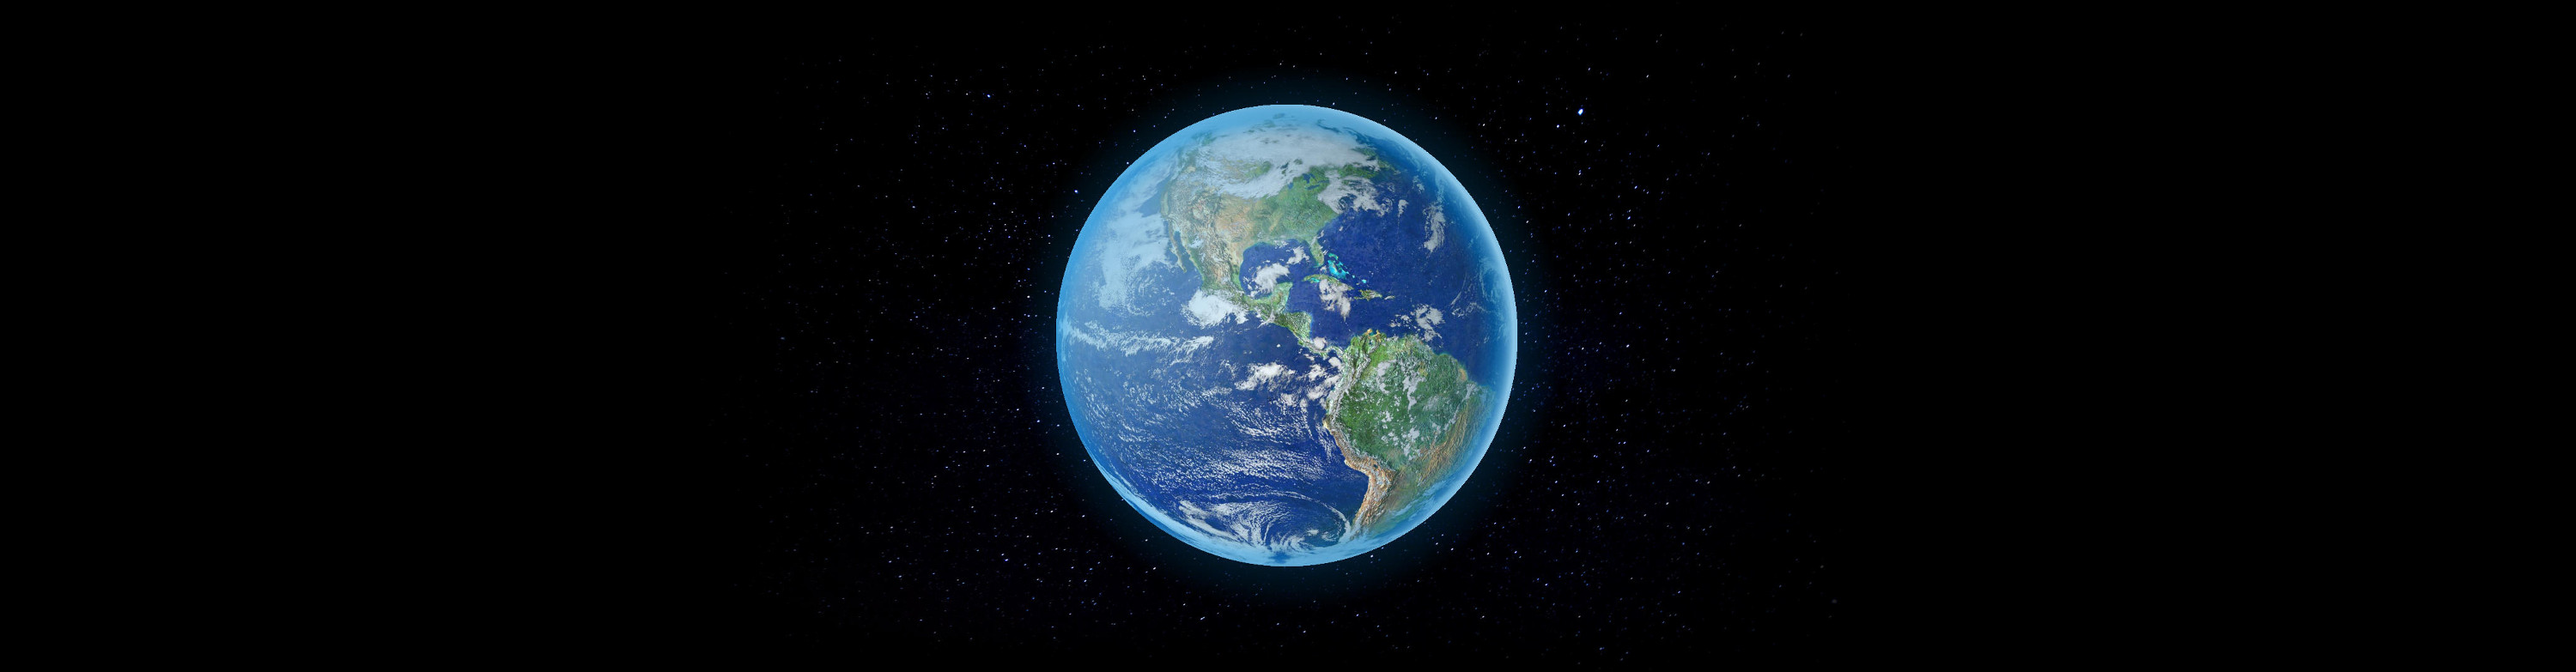
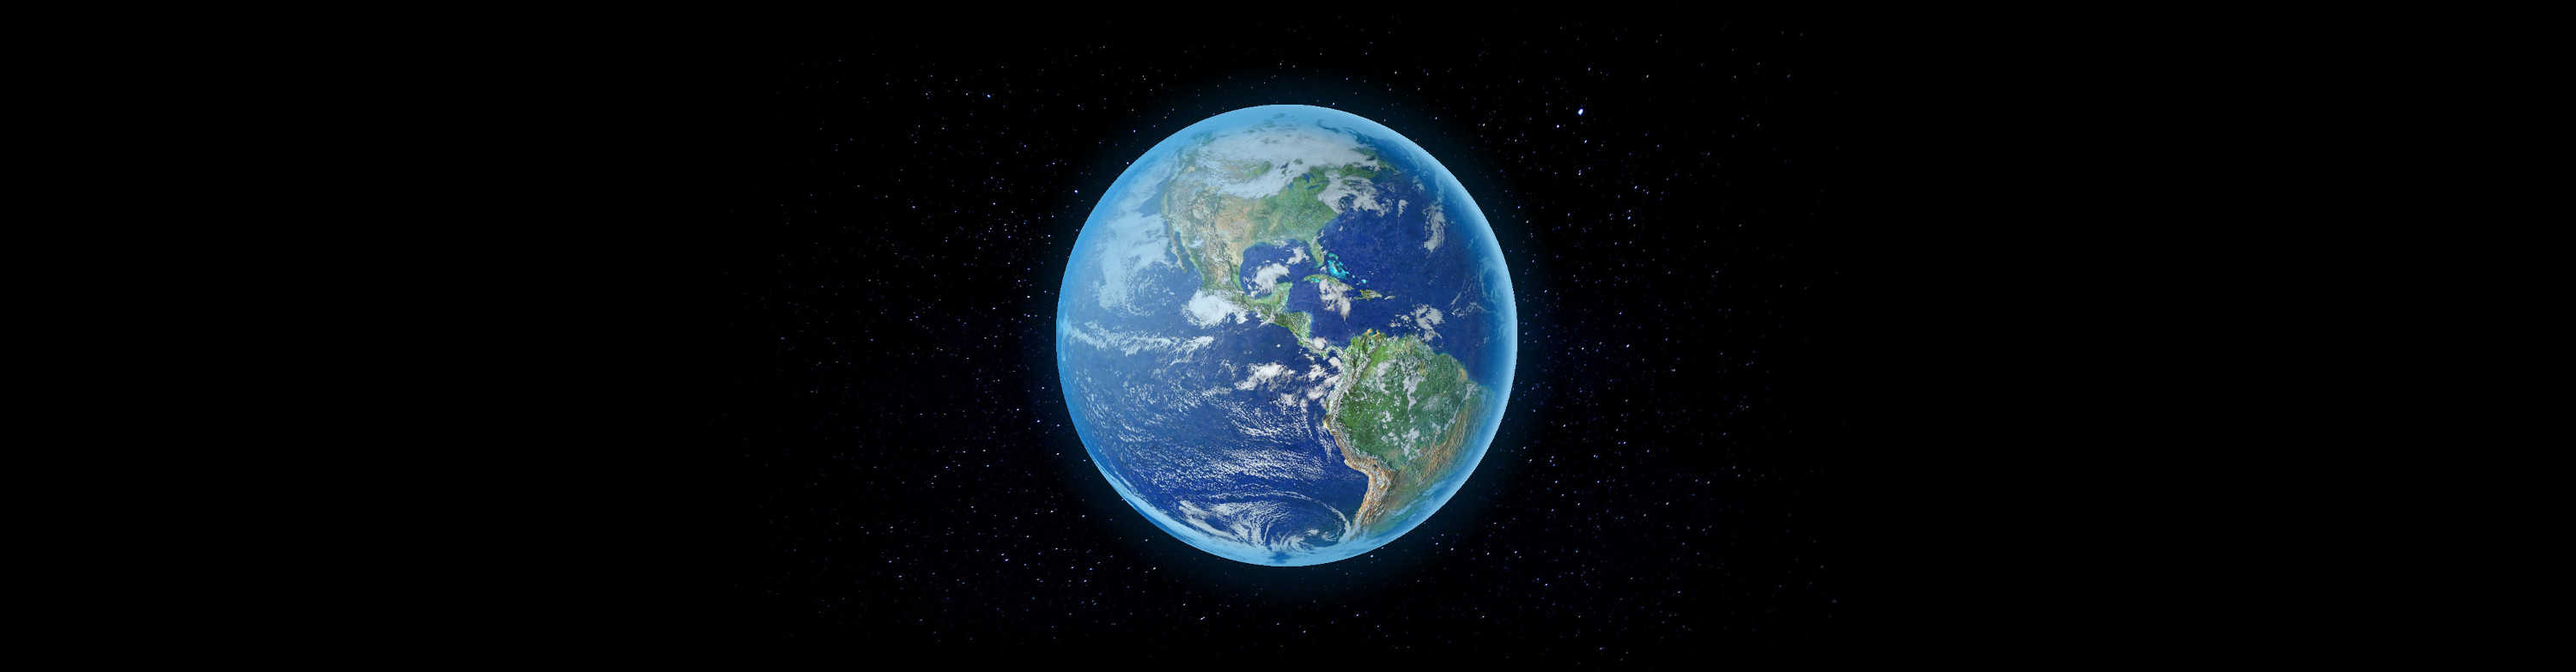
imagen menu, imagenes con borde redondeado, fix texto todas las paginas. Colaboracion de Yanira

Changed region(s): [[0.434, 0.5211, 0.527, 0.7969], [0.527, 0.4904, 0.558, 0.5211]]

diff --git a/index.html b/index.html
@@ -18,7 +18,6 @@
         <!--*********************************JavaScript *******************************************************-->
         <script src="js/modernizr-2.8.3-respond-1.4.2.min.js"></script>
         <script src="https://ajax.googleapis.com/ajax/libs/jquery/2.1.3/jquery.min.js"></script>
-        <script src="js/jquery.carouFredSel-6.2.1.js" type="text/javascript"></script>
 
     </head>
 
@@ -30,17 +29,10 @@
             </div>
         </header>
 
-        <!-- Slider -->
-        <section id="slideshow">
-            <div id="slider">
-                <div class="slide">
-                    <img src="images/slideshow/sliderimage1.jpg" alt="mundo">
-                </div>
-                <div class="slide">
-                    <img src="images/slideshow/sliderimage2.jpg" alt="presentación">
-                </div>
-            </div> <!-- fin de slider -->
-        </section> <!-- fin de slideshow -->
+        <!-- IMAGENES / IMAGES -->
+        <div id="imagenes">
+            <img src="images\slideshow\sliderimage1.jpg" alt="Tierra"/>
+        </div>
 
         <!-- MENU DE NAVEGACION -->
         <nav id="menu">
@@ -86,8 +78,6 @@
             </article>
 
         </div>
-
-        <!-- IMAGENES / IMAGES -->
 
         <div class="clearfix"></div>
 

diff --git a/Quienes_somos.html b/Quienes_somos.html
@@ -65,26 +65,22 @@
             });
         </script>
 
+        <br>
+
         <!-- Articulos -->
         <div class="container">
-            <h1>Integrantes:</h1>
 
-            <article id="col-1">
-                <strong>Director del Proyecto</strong>
-            </article>
-
-            <article id="col-2">
-                Jefes de Áreas Específicas
-            </article>
-
+            <h1>Equipo</h1>
+            <ul>
+                <li>Director del Proyecto</li>
+                <li>Encargados de Áreas Específicas</li>
+            </ul>
         </div>
 
         <!-- IMAGENES / IMAGES -->
-
-
-        <figure class="container">
+        <div class="container">
             <img id="im" src="images/slideshow/sliderimage2.jpg" alt="Planeta Tierra"/>
-        </figure>
+        </div>
 
         <div class="clearfix"></div>
 

diff --git a/Avances.html b/Avances.html
@@ -65,24 +65,22 @@
             });
         </script>
 
+        <br>
+
         <!-- Articulos -->
         <div class="container">
+
             <h1>Aquí podrás ver nuestros logros y metas:</h1>
-
-            <article id="col-1">
-                Lista de Avances
-            </article>
-
-            <article id="col-2">
-                Planes Futuros
-            </article>
-
+            <ul>
+                <li>Lista de Avances</li>
+                <li>Planes Futuros</li>
+            </ul>
         </div>
 
         <!-- IMAGENES / IMAGES -->
 
         <figure class="container">
-            <img id="im" src="images/slideshow/sliderimage2.jpg" alt="Planeta Tierra"/>
+            <img id="im" src="images/slideshow/sliderimage1.jpg" alt="Planeta Tierra"/>
         </figure>
 
         <div class="clearfix"></div>

diff --git a/css/stylesheet.css b/css/stylesheet.css
@@ -50,17 +50,6 @@ h1 {
     opacity: 0.7;
 }
 
-/*slideshow*/
-#slideshow {
-    width: 100%;
-    height: auto;
-}
-
-.slide {
-    width: 100%;
-    height: auto;
-}
-
 /*ClearFix*/
 .clearfix:before, .clearfix:after {
     content:"";
@@ -105,7 +94,10 @@ h1 {
     text-decoration: none;
     line-height: 40px;
     text-shadow: 1px 1px 0px rgb(40, 55, 68);
-    box-sizing: border-box;*/
+    -webkit-box-sizing: border-box;
+    -moz-box-sizing: border-box;
+    -ms-box-sizing: border-box;
+    box-sizing: border-box;
 
  }
 
@@ -123,12 +115,17 @@ h1 {
 
 /*imagenes*/
 
-#im {
-    width: 90%;
-    opacity: 0.3;
-    position: static;
+#imagenes{
+  width: 100%;
+  height: auto;
+  background-color: rgb(0, 0, 0);
 }
 
+#im {
+    border-radius: 30px;
+    width: 100%;
+    position: static;
+}
 
 /*Foter*/
 footer {

diff --git a/Contactanos.html b/Contactanos.html
@@ -64,18 +64,16 @@
             });
         </script>
 
+        <br>
+
         <!-- Articulos -->
         <div class="container">
+
             <h1>Puedes llamar o escribir a:</h1>
-
-            <article id="col-1">
-                Telefono: +58-414-400.36.54
-            </article>
-
-            <article id="col-2">
-                Correo: dakicpopovich@gmail.com
-            </article>
-
+            <ul>
+                <li>Telefono: +58-414-400.36.54</li>
+                <li>Correo: dakicpopovich@gmail.com</li>
+            </ul>
         </div>
 
         <!-- IMAGENES / IMAGES -->

diff --git a/Eventos.html b/Eventos.html
@@ -65,10 +65,17 @@
             });
         </script>
 
+        <br>
+
         <!-- Articulos -->
         <div class="container">
-            <h1>Lista de Eventos:</h1>
 
+            <h1>Lista de Eventos</h1>
+            <ul>
+                <li>Año</li>
+                <li>Mes</li>
+                <li>Día</li>
+            </ul>
         </div>
 
         <!-- IMAGENES / IMAGES -->
